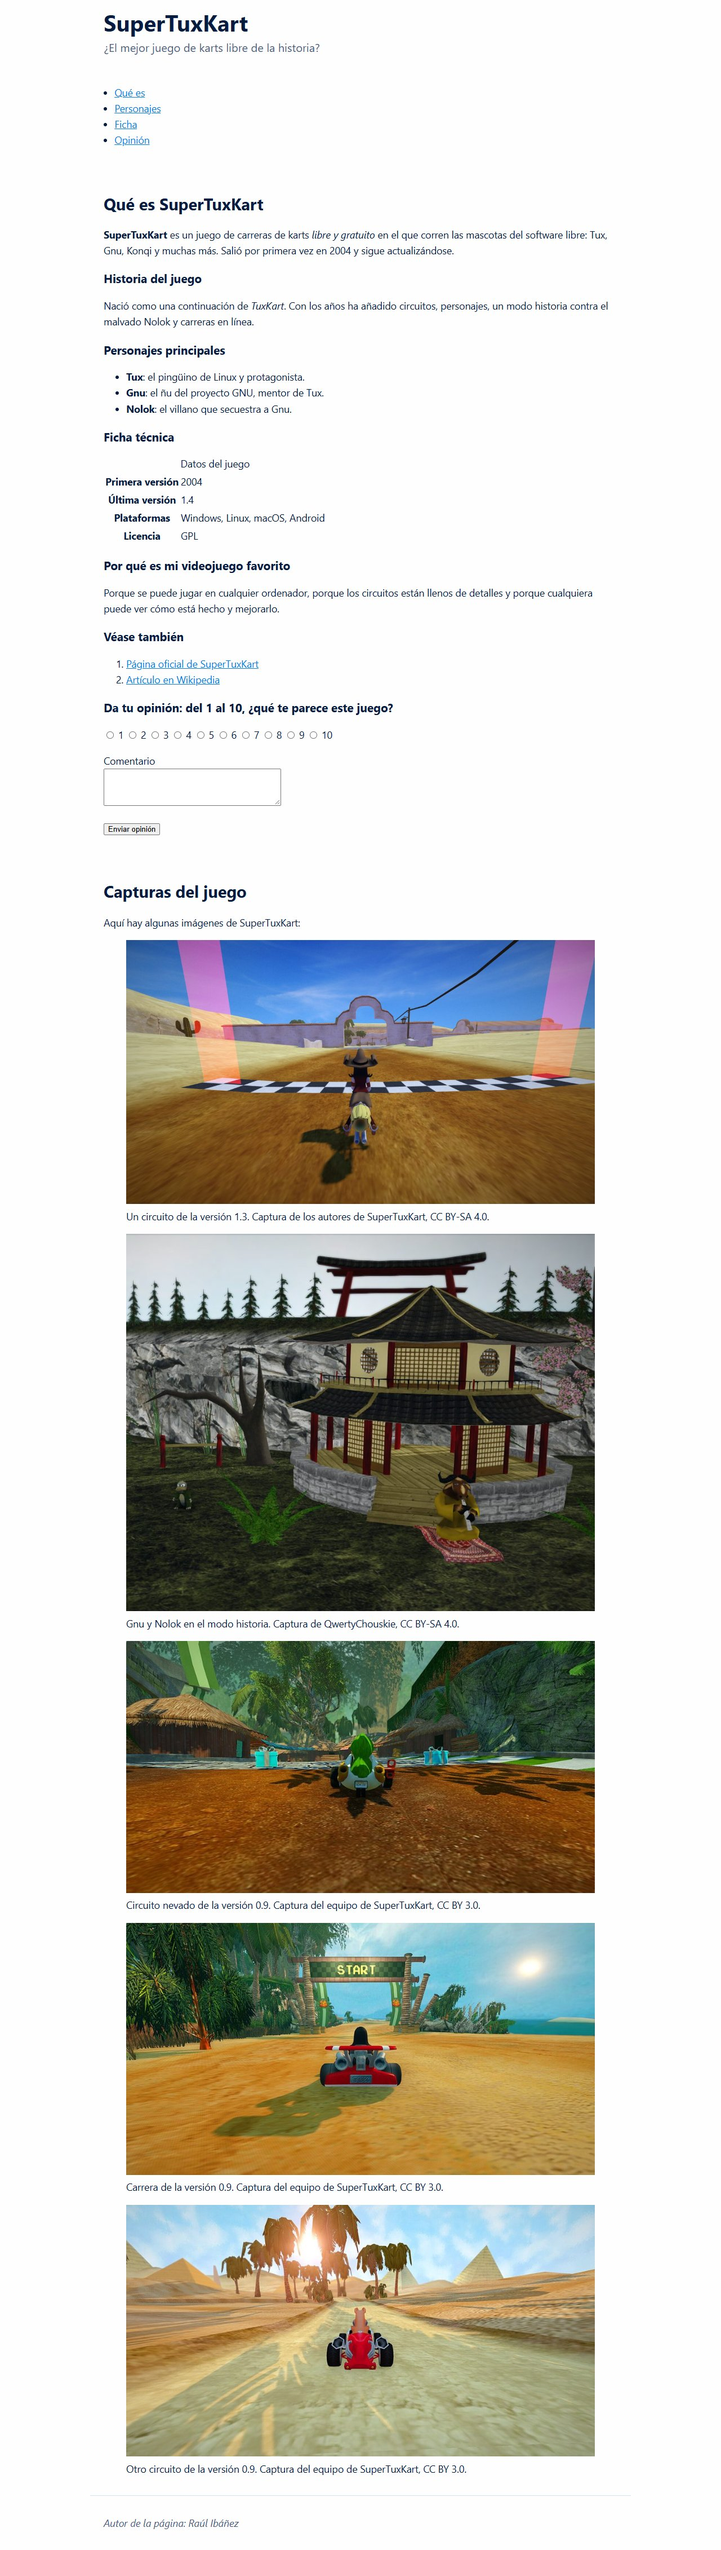
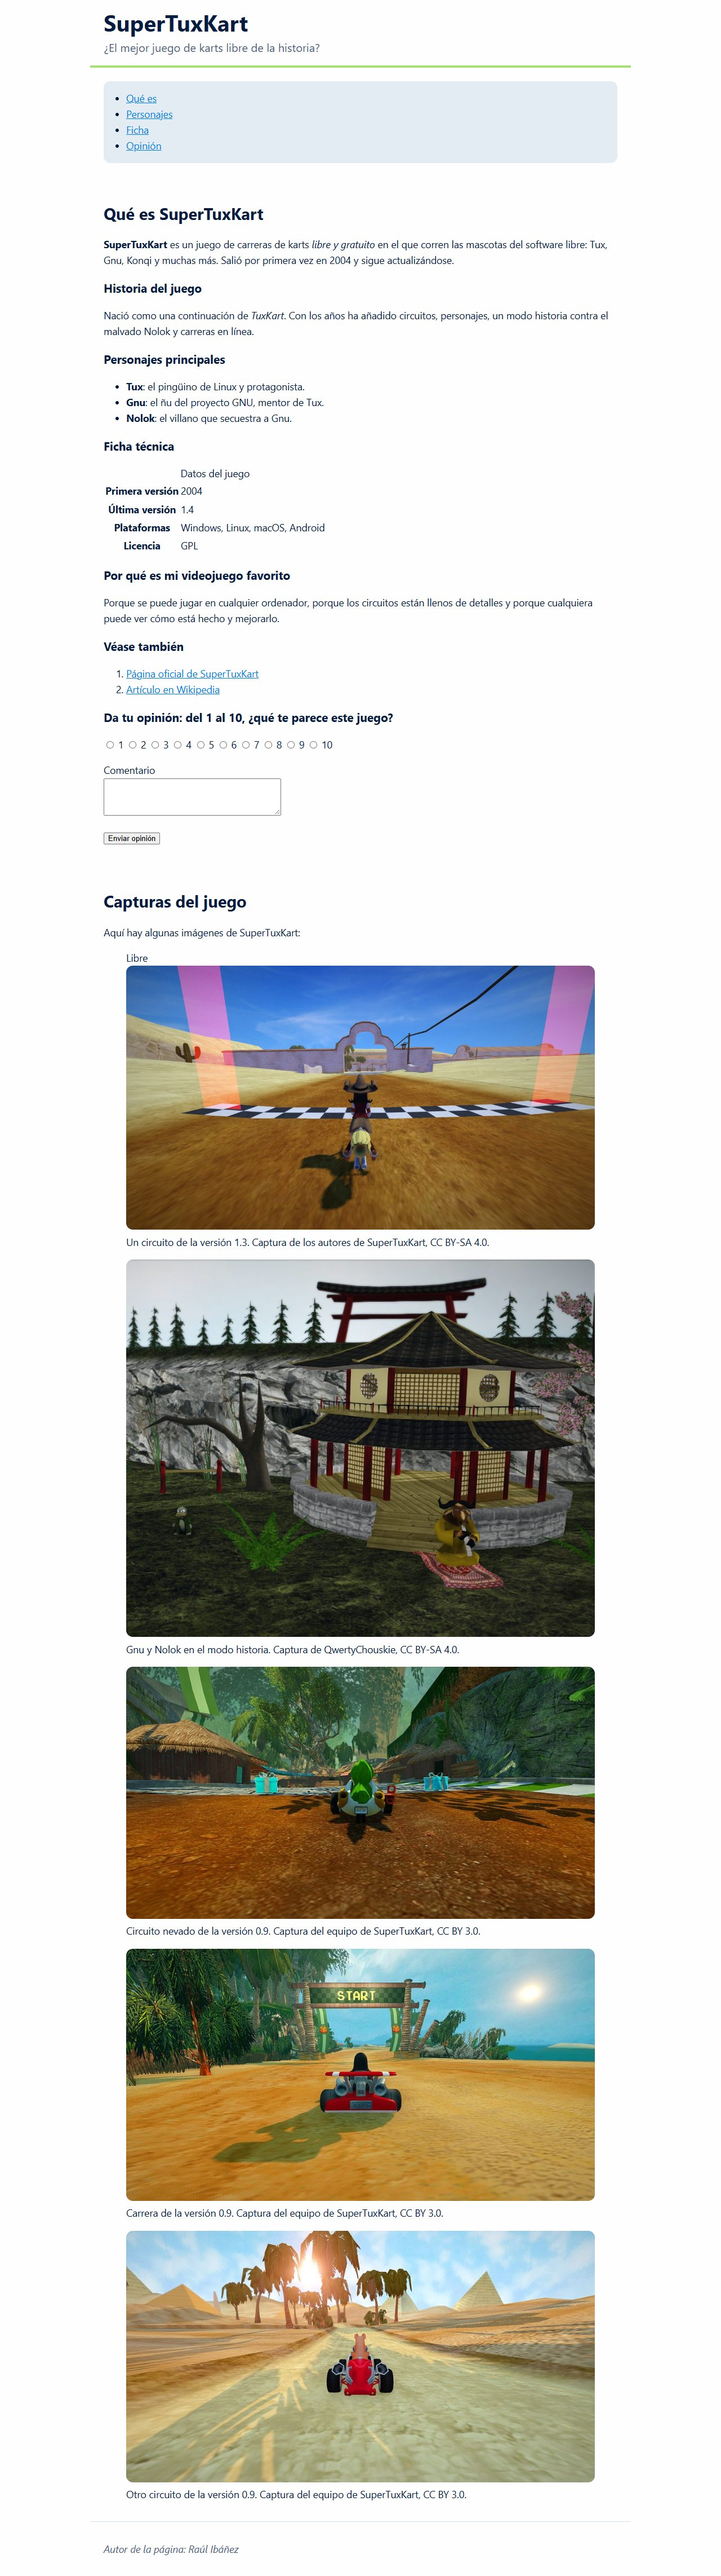
Maqueta 1 de la UT02 con border-bottom y border-radius, como pide la diapositiva 26
La maqueta de la diapositiva 27 no enseñaba los bordes que pide la
práctica. Ahora tiene una línea verde bajo la cabecera, el menú en una
caja con esquinas redondeadas y las capturas redondeadas. Texto y notas
de la 27 actualizados.

Changed region(s): [[0.1562, 0.343, 0.8438, 0.9666], [0.125, 0.0312, 0.875, 0.3118]]

diff --git a/ut02/index.html b/ut02/index.html
@@ -785,11 +785,11 @@ h1 {
 
 <!-- 27 Maqueta 1 -->
 <section data-label="2.4 · Maqueta 1" data-seccion="2.4" style="display:grid;grid-template-columns:1fr 1.3fr;gap:80px;padding:var(--pad-top) var(--pad-x) var(--pad-bottom)">
-  <aside class="notas"><b>Se sube también a Classroom a tamaño completo.</b> Paleta: --background #fefefe, --text #041c3f, --accent #a5e070, --accent-light #e3ecf3, --border #d6e0ea, --link #017ce9. Tipografía: Segoe UI, Roboto, system-ui, sans-serif.</aside>
+  <aside class="notas"><b>Se sube también a Classroom a tamaño completo.</b> Paleta: --background #fefefe, --text #041c3f, --accent #a5e070, --accent-light #e3ecf3, --border #d6e0ea, --link #017ce9. Tipografía: Segoe UI, Roboto, system-ui, sans-serif. Bordes: header { border-bottom: 4px solid var(--accent); }, nav ul con fondo --accent-light y border-radius: 0.75rem, aside img { border-radius: 0.75rem; }; el pie conserva border-top: 1px solid var(--border).</aside>
   <div style="display:flex;flex-direction:column">
     <span class="pill">Práctica · Parte 1</span>
     <h2 style="font-size:var(--type-title);font-weight:800;line-height:1.1;margin-top:32px;color:var(--navy);text-wrap:balance">Maqueta 1: cómo debe quedar</h2>
-    <p style="font-size:var(--type-small);line-height:1.5;margin-top:var(--gap-title)">Una columna de 60rem centrada, el texto en azul marino sobre fondo casi blanco, letra sin serifa y los enlaces en azul. Clic en la imagen para verla entera.</p>
+    <p style="font-size:var(--type-small);line-height:1.5;margin-top:var(--gap-title)">Una columna de 60rem centrada, el texto en azul marino sobre fondo casi blanco, letra sin serifa y los enlaces en azul. Bajo la cabecera, una línea verde (<code class="en-linea">border-bottom</code>); el menú y las capturas, con las esquinas redondeadas (<code class="en-linea">border-radius</code>). Clic en la imagen para verla entera.</p>
     <p style="font-size:var(--type-caption);font-weight:700;color:var(--blue);text-transform:uppercase;letter-spacing:.06em;margin-top:var(--gap-title)">La paleta</p>
     <div style="display:grid;grid-template-columns:repeat(3,1fr);gap:14px;margin-top:16px;font-size:20px;font-family:var(--mono)">
       <div style="background:#fefefe;border:2px solid var(--line);border-radius:12px;padding:14px"><span style="display:block;font-weight:700;font-family:inherit">--background</span>#fefefe</div>
